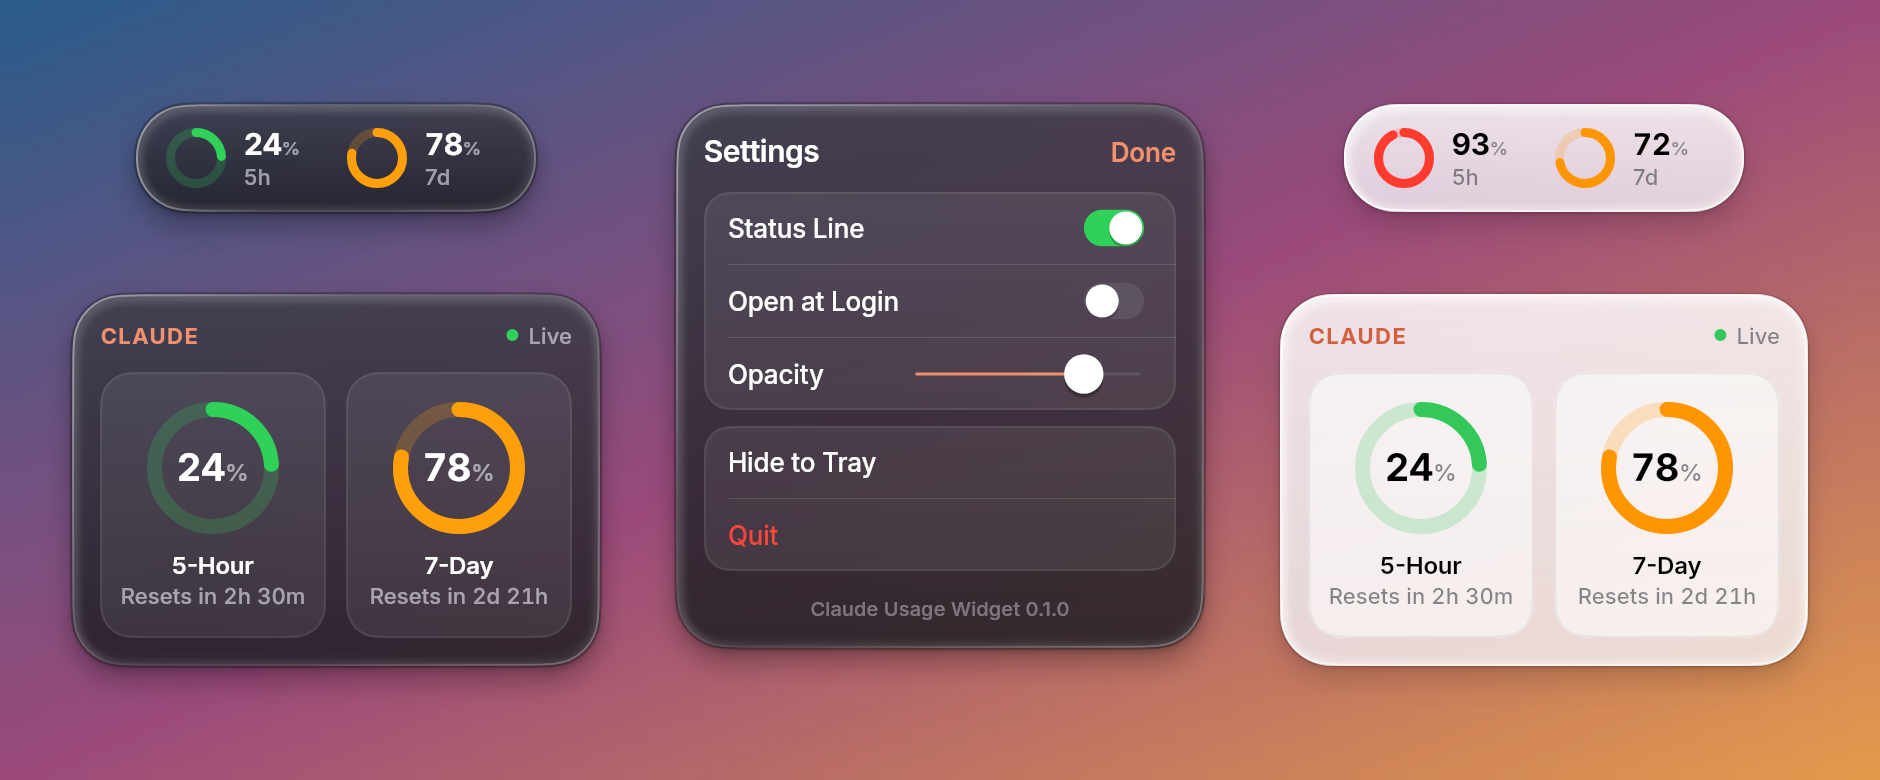
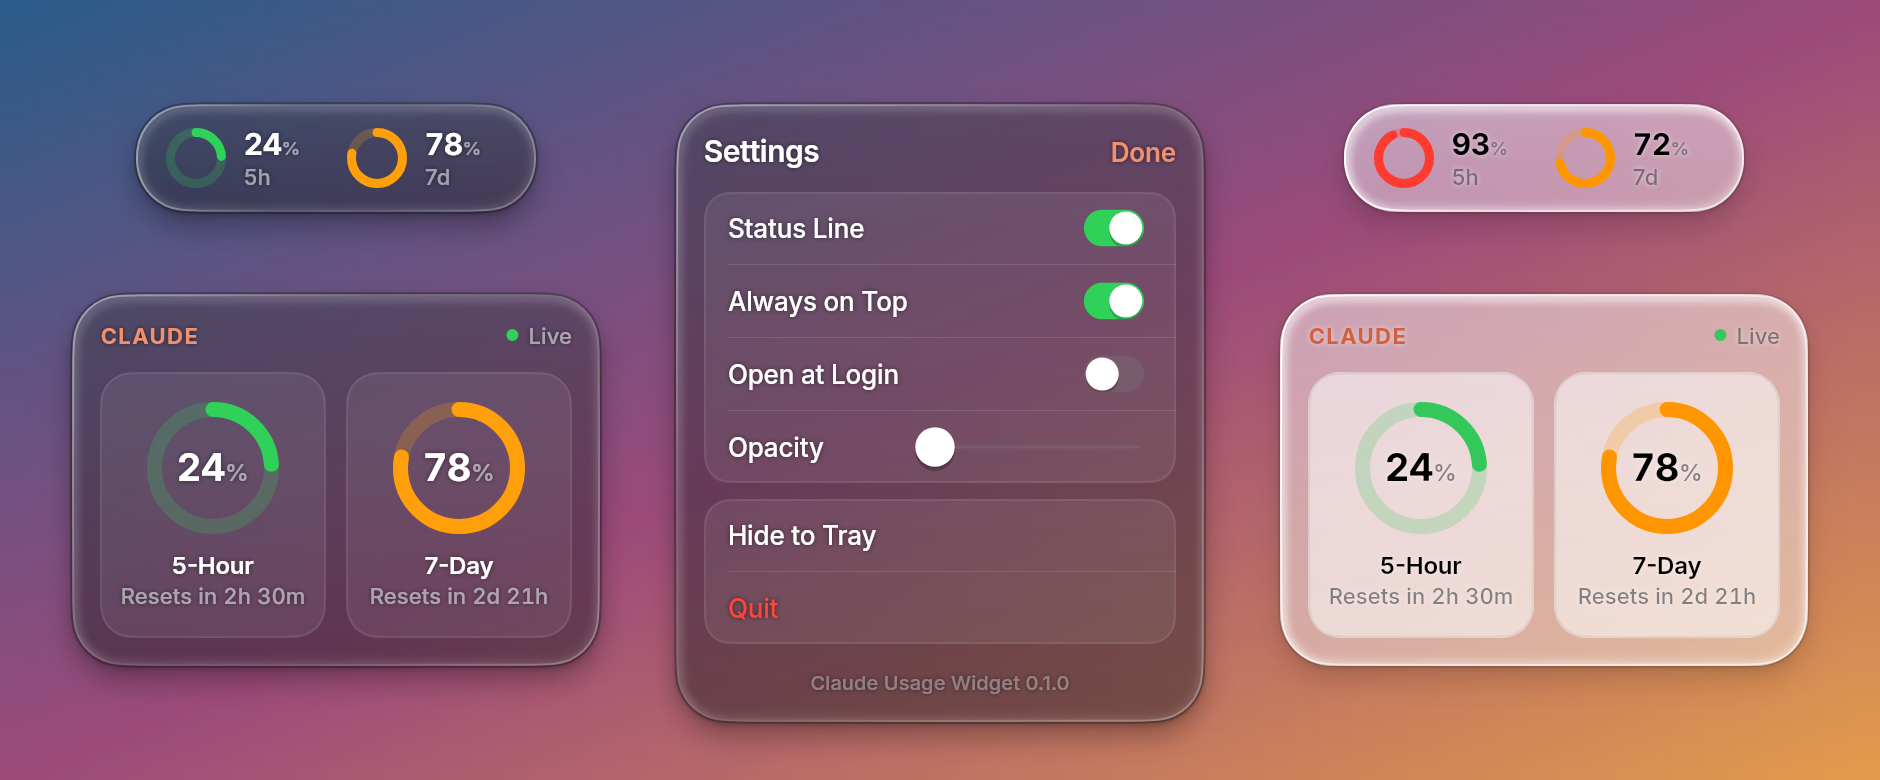
Add Always on Top switch, clearer default glass, X11 backend on Linux
- Settings gains an Always on Top switch (on by default, persisted).
- Linux prefers X11 so keep-above and position restore work on Wayland sessions.
- Glass defaults to its clearest setting, with a text halo for legibility.
- Docs, changelog and README images updated.

diff --git a/lib/data/services/window_service.dart b/lib/data/services/window_service.dart
@@ -7,7 +7,14 @@ import 'package:window_manager/window_manager.dart';
 /// The native window: frameless, always on top, draggable.
 abstract interface class WindowService {
   /// Creates the window at [size], placing it at [position] if given.
-  Future<void> init({required Size size, Offset? position});
+  Future<void> init({
+    required Size size,
+    required bool alwaysOnTop,
+    Offset? position,
+  });
+
+  /// Keeps the window above other windows, or lets it be covered.
+  Future<void> setAlwaysOnTop({required bool enabled});
 
   /// Resizes the window.
   Future<void> setSize(Size size);
@@ -36,13 +43,17 @@ class DesktopWindowService with WindowListener implements WindowService {
   Stream<Offset> get moved => _moved.stream;
 
   @override
-  Future<void> init({required Size size, Offset? position}) async {
+  Future<void> init({
+    required Size size,
+    required bool alwaysOnTop,
+    Offset? position,
+  }) async {
     await windowManager.ensureInitialized();
     windowManager.addListener(this);
     await windowManager.waitUntilReadyToShow(
       WindowOptions(
         size: size,
-        alwaysOnTop: true,
+        alwaysOnTop: alwaysOnTop,
         skipTaskbar: true,
         titleBarStyle: TitleBarStyle.hidden,
         backgroundColor: const Color(0x00000000),
@@ -53,6 +64,10 @@ class DesktopWindowService with WindowListener implements WindowService {
       },
     );
   }
+
+  @override
+  Future<void> setAlwaysOnTop({required bool enabled}) =>
+      windowManager.setAlwaysOnTop(enabled);
 
   @override
   Future<void> setSize(Size size) => windowManager.setSize(size);

diff --git a/lib/ui/features/usage_widget/cubit/usage_widget_state.dart b/lib/ui/features/usage_widget/cubit/usage_widget_state.dart
@@ -26,6 +26,7 @@ class UsageWidgetState extends Equatable {
     this.startupEnabled = false,
     this.trayAvailable = false,
     this.windowVisible = true,
+    this.alwaysOnTop = true,
     this.errorMessage,
   });
 
@@ -53,6 +54,9 @@ class UsageWidgetState extends Equatable {
   /// Whether the window is shown.
   final bool windowVisible;
 
+  /// Whether the window stays above other windows.
+  final bool alwaysOnTop;
+
   /// Last user-facing error, or null.
   final String? errorMessage;
 
@@ -68,6 +72,7 @@ class UsageWidgetState extends Equatable {
     bool? startupEnabled,
     bool? trayAvailable,
     bool? windowVisible,
+    bool? alwaysOnTop,
     String? errorMessage,
     bool clearError = false,
   }) => UsageWidgetState(
@@ -79,6 +84,7 @@ class UsageWidgetState extends Equatable {
     startupEnabled: startupEnabled ?? this.startupEnabled,
     trayAvailable: trayAvailable ?? this.trayAvailable,
     windowVisible: windowVisible ?? this.windowVisible,
+    alwaysOnTop: alwaysOnTop ?? this.alwaysOnTop,
     errorMessage: clearError ? null : errorMessage ?? this.errorMessage,
   );
 
@@ -92,6 +98,7 @@ class UsageWidgetState extends Equatable {
     startupEnabled,
     trayAvailable,
     windowVisible,
+    alwaysOnTop,
     errorMessage,
   ];
 }

diff --git a/lib/ui/core/widgets/glass_card.dart b/lib/ui/core/widgets/glass_card.dart
@@ -21,6 +21,17 @@ class GlassCard extends StatelessWidget {
   /// Corner radius; on the 54 px pill this makes a capsule.
   static const radius = 26.0;
 
+  /// A soft halo in the opposite tone of the text, inherited by all text on
+  /// the card. The clearer the glass, the stronger it gets, so text stays
+  /// readable when whatever is behind the window shows through.
+  List<Shadow>? _legibilityShadow(GlassTheme glass) {
+    final strength = ((1 - opacity) * 1.1).clamp(0.0, 0.55);
+    if (strength <= 0) return null;
+    final lightText = glass.label.computeLuminance() > 0.5;
+    final tone = lightText ? const Color(0xFF000000) : const Color(0xFFFFFFFF);
+    return [Shadow(color: tone.withValues(alpha: strength), blurRadius: 4)];
+  }
+
   @override
   Widget build(BuildContext context) {
     final glass = GlassTheme.of(context);
@@ -29,7 +40,10 @@ class GlassCard extends StatelessWidget {
       child: ClipRSuperellipse(
         borderRadius: BorderRadius.circular(radius),
         child: DefaultTextStyle(
-          style: AppText.style(13, color: glass.secondary),
+          style: AppText.style(
+            13,
+            color: glass.secondary,
+          ).copyWith(shadows: _legibilityShadow(glass)),
           child: child,
         ),
       ),

diff --git a/test/ui/cubit_test.dart b/test/ui/cubit_test.dart
@@ -64,6 +64,8 @@ void main() {
     when(() => window.moved).thenAnswer((_) => const Stream<Offset>.empty());
     when(() => window.setSize(any())).thenAnswer((_) async {});
     when(() => window.dispose()).thenAnswer((_) async {});
+    when(() => window.setAlwaysOnTop(enabled: any(named: 'enabled')))
+        .thenAnswer((_) async {});
     when(() => tray.start(any())).thenAnswer((_) async => true);
     when(
       () => tray.updateMenu(
@@ -181,6 +183,25 @@ void main() {
     ],
     verify: (_) => expect(preferences.opacity, 0.5),
   );
+
+  test(
+    'always on top is on by default, toggles the window and is saved',
+    () async {
+      final cubit = make();
+      expect(cubit.state.alwaysOnTop, isTrue);
+      await cubit.toggleAlwaysOnTop();
+      expect(cubit.state.alwaysOnTop, isFalse);
+      verify(() => window.setAlwaysOnTop(enabled: false)).called(1);
+      expect(preferences.alwaysOnTop, isFalse);
+      await cubit.close();
+    },
+  );
+
+  test('the glass starts at its clearest setting', () async {
+    final cubit = make();
+    expect(cubit.state.opacity, 0.5);
+    await cubit.close();
+  });
 
   blocTest<UsageWidgetCubit, UsageWidgetState>(
     'a failing settings write is shown as an error, not thrown',

diff --git a/lib/ui/features/usage_widget/cubit/usage_widget_cubit.dart b/lib/ui/features/usage_widget/cubit/usage_widget_cubit.dart
@@ -39,6 +39,7 @@ class UsageWidgetCubit extends Cubit<UsageWidgetState> {
          UsageWidgetState(
            now: clock(),
            opacity: preferences.opacity ?? AppConstants.defaultOpacity,
+           alwaysOnTop: preferences.alwaysOnTop,
          ),
        );
 
@@ -205,6 +206,14 @@ class UsageWidgetCubit extends Cubit<UsageWidgetState> {
     } on FileSystemException catch (e) {
       emit(state.copyWith(errorMessage: 'Cannot write settings: ${e.message}'));
     }
+  }
+
+  /// Keeps the widget above other windows, or lets them cover it.
+  Future<void> toggleAlwaysOnTop() async {
+    final enabled = !state.alwaysOnTop;
+    await _window.setAlwaysOnTop(enabled: enabled);
+    emit(state.copyWith(alwaysOnTop: enabled));
+    await _preferences.saveAlwaysOnTop(value: enabled);
   }
 
   /// Turns launch at startup on or off.

diff --git a/lib/data/services/preferences_service.dart b/lib/data/services/preferences_service.dart
@@ -12,6 +12,7 @@ class PreferencesService {
   static const _x = 'window_x';
   static const _y = 'window_y';
   static const _opacity = 'opacity';
+  static const _alwaysOnTop = 'always_on_top';
 
   /// Last saved window position, or null on first run.
   Offset? get windowPosition {
@@ -31,4 +32,11 @@ class PreferencesService {
 
   /// Saves the card opacity.
   Future<void> saveOpacity(double value) => _prefs.setDouble(_opacity, value);
+
+  /// Whether the widget stays above other windows; on unless turned off.
+  bool get alwaysOnTop => _prefs.getBool(_alwaysOnTop) ?? true;
+
+  /// Saves the always-on-top choice.
+  Future<void> saveAlwaysOnTop({required bool value}) =>
+      _prefs.setBool(_alwaysOnTop, value);
 }

diff --git a/lib/ui/features/usage_widget/views/menu_view.dart b/lib/ui/features/usage_widget/views/menu_view.dart
@@ -58,6 +58,13 @@ class MenuView extends StatelessWidget {
                       ),
                     ),
                     _MenuRow(
+                      label: 'Always on Top',
+                      trailing: _Toggle(
+                        value: state.alwaysOnTop,
+                        onChanged: cubit.toggleAlwaysOnTop,
+                      ),
+                    ),
+                    _MenuRow(
                       label: 'Open at Login',
                       trailing: _Toggle(
                         value: state.startupEnabled,

diff --git a/lib/ui/features/usage_widget/widget_layout.dart b/lib/ui/features/usage_widget/widget_layout.dart
@@ -22,10 +22,10 @@ abstract final class WidgetLayout {
   static const emptyDetails = Size(264, 164);
 
   /// Settings, with the tray entry.
-  static const menuWithTray = Size(264, 272);
+  static const menuWithTray = Size(264, 309);
 
   /// Settings, without the tray entry.
-  static const menuWithoutTray = Size(264, 236);
+  static const menuWithoutTray = Size(264, 273);
 
   /// Size of the card for [state].
   static Size cardSize(UsageWidgetState state) => switch (state.viewMode) {

diff --git a/lib/config/app_constants.dart b/lib/config/app_constants.dart
@@ -27,9 +27,9 @@ abstract final class AppConstants {
   /// Usage percents that trigger a desktop notification, ascending.
   static const alertPercents = [80.0, 95.0];
 
-  /// Default strength of the glass fill, from [minOpacity] to 1.
-  static const defaultOpacity = 0.9;
-
   /// Lowest glass strength the slider allows.
   static const minOpacity = 0.5;
+
+  /// Default strength of the glass fill: the clearest setting.
+  static const defaultOpacity = minOpacity;
 }

diff --git a/lib/main.dart b/lib/main.dart
@@ -26,6 +26,7 @@ Future<void> main() async {
   final window = DesktopWindowService();
   await window.init(
     size: WidgetLayout.windowSizeFor(WidgetLayout.pill),
+    alwaysOnTop: preferences.alwaysOnTop,
     position: preferences.windowPosition,
   );
 

diff --git a/test/ui/views_test.dart b/test/ui/views_test.dart
@@ -161,6 +161,7 @@ void main() {
       ),
     );
     expect(find.text('Hide to Tray'), findsNothing);
+    expect(find.text('Always on Top'), findsOneWidget);
     expect(find.text('settings.json is invalid'), findsOneWidget);
   });
 

diff --git a/linux/runner/main.cc b/linux/runner/main.cc
@@ -1,6 +1,14 @@
+#include <gdk/gdk.h>
+
 #include "my_application.h"
 
 int main(int argc, char** argv) {
+  // Prefer X11 (through XWayland on Wayland sessions). Wayland gives apps no
+  // way to stay above other windows or to restore their position, and both
+  // are essential for a floating widget. Falls back to Wayland if X11 is
+  // unavailable; GDK_BACKEND still overrides this.
+  gdk_set_allowed_backends("x11,wayland,*");
+
   g_autoptr(MyApplication) app = my_application_new();
   return g_application_run(G_APPLICATION(app), argc, argv);
 }
